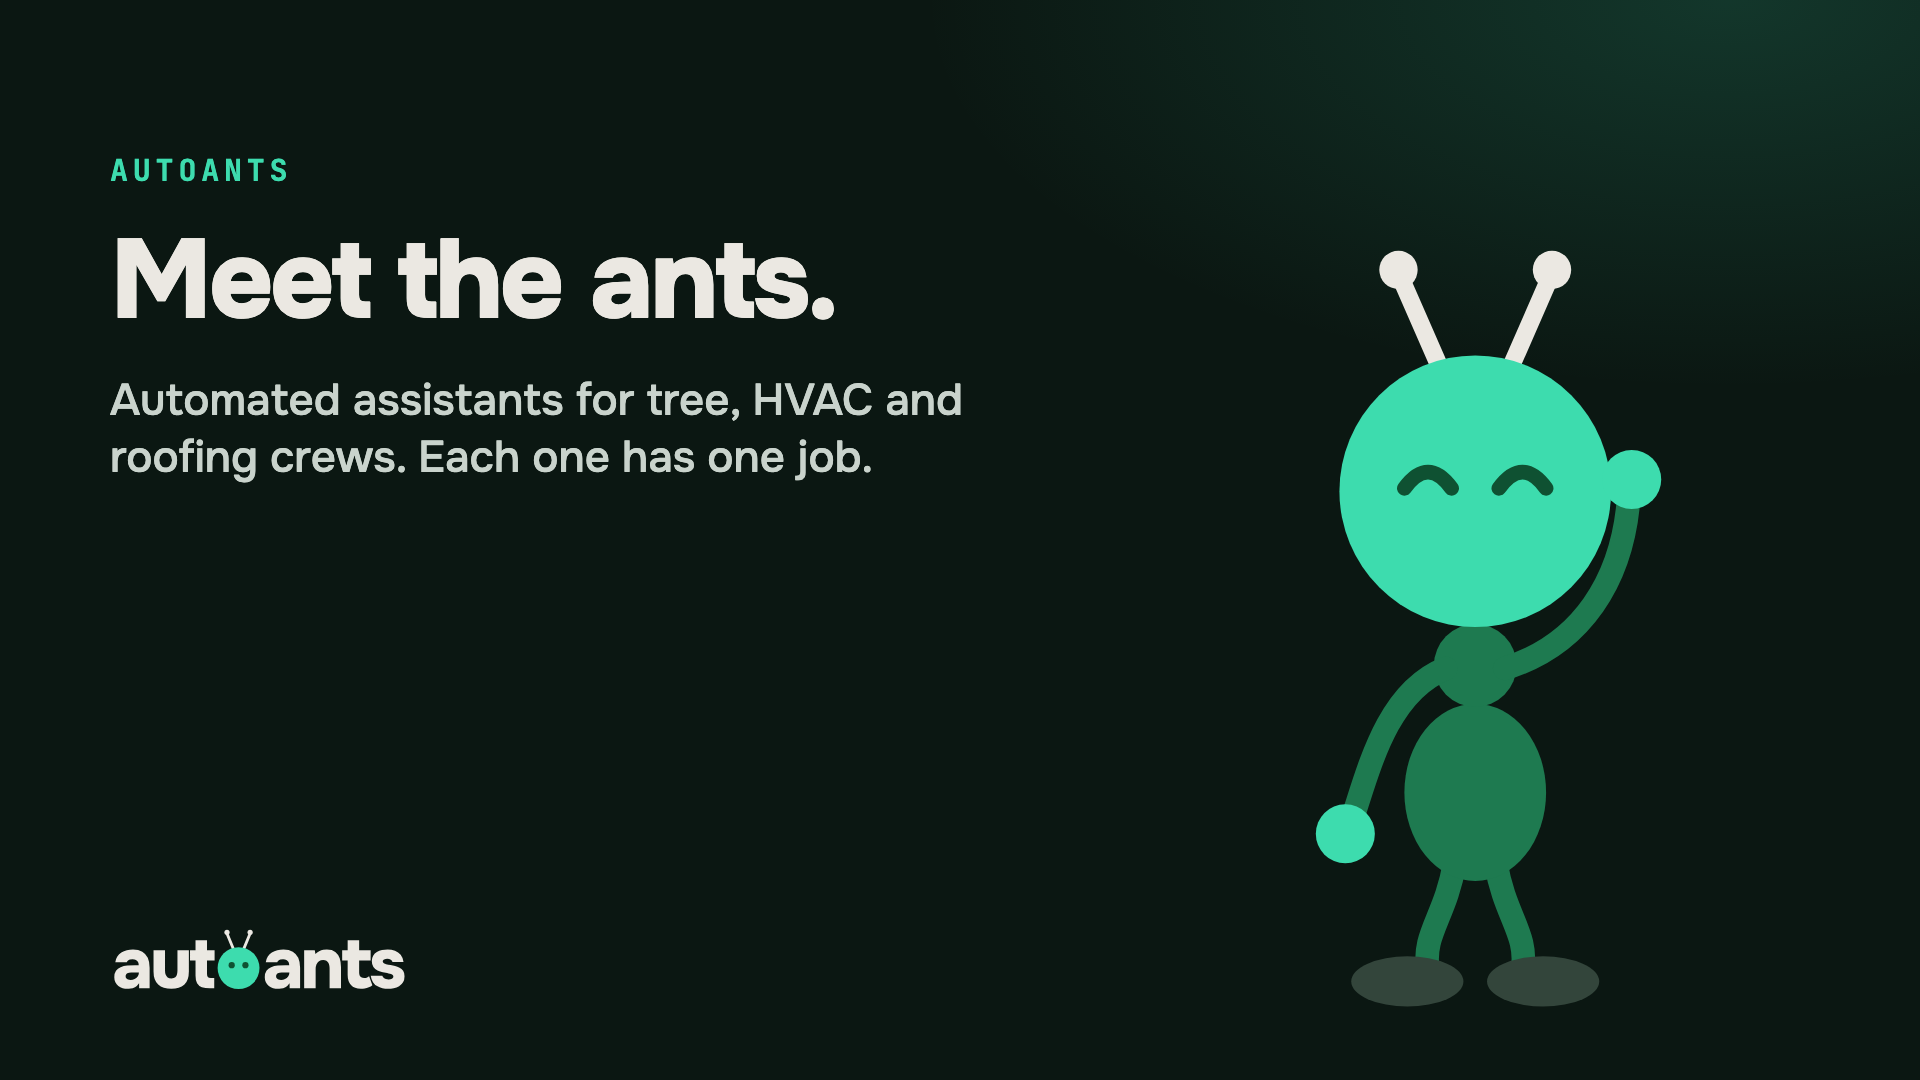
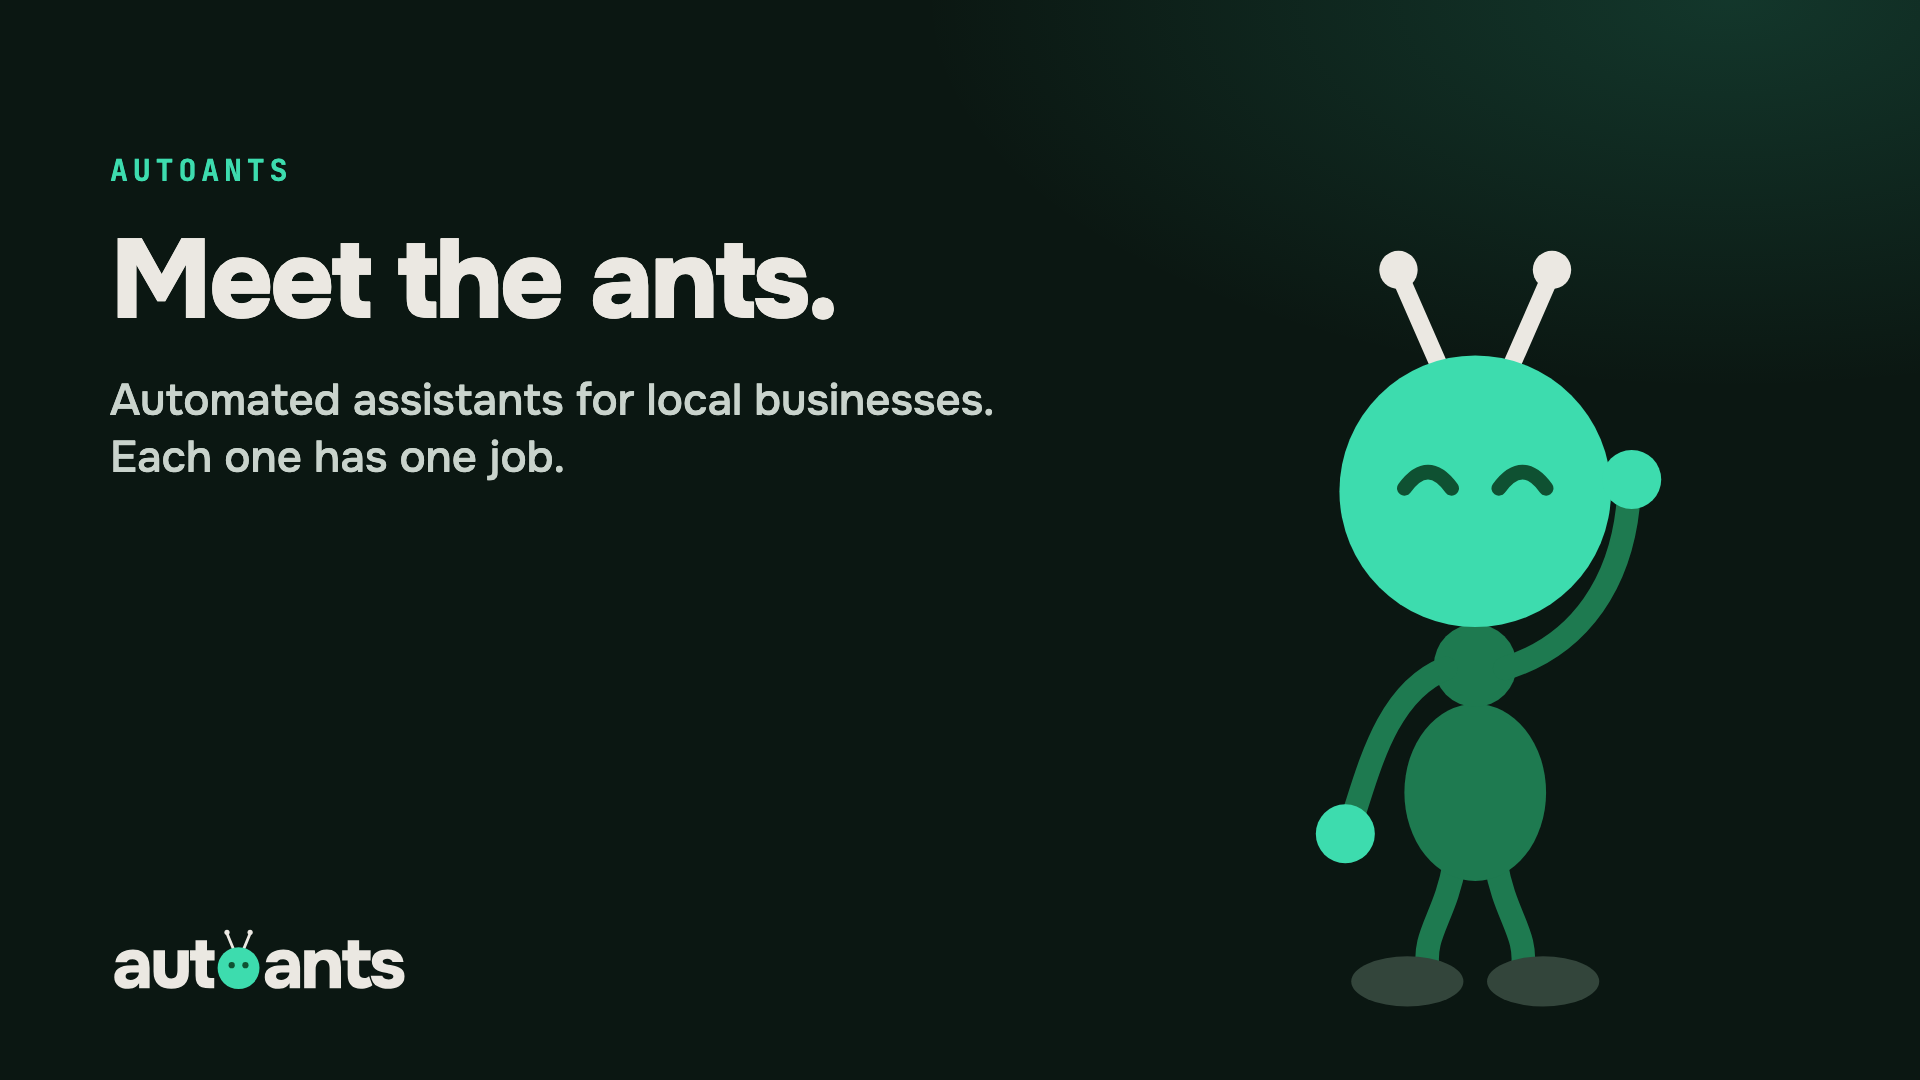
social: post #1 (meet the ants) says local businesses; caption updated

Changed region(s): [[0.0625, 0.3361, 0.5312, 0.4583]]

diff --git a/brand/social/LAUNCH.md b/brand/social/LAUNCH.md
@@ -42,8 +42,8 @@ Use the `feed` size on Instagram, Facebook and LinkedIn, and `wide` on X. Use th
 Hashtags are kept to three or four, all local or trade: they help a little, and a wall of tags reads as spam.
 
 **meet-the-ants**
-> Meet the ants. 🐜 Each one does one job for your crew while you're out working: texts back the calls you miss, answers new leads, books estimates, asks every customer for a review. Louisiana-built. See what they'd do for you at autoants.com.
-> #TreeService #HVAC #Roofing #Louisiana
+> Meet the ants. 🐜 Each one does one job for your business while you're busy: texts back the calls you miss, answers new leads, books appointments, asks every customer for a review. See what they'd do for you at autoants.com.
+> #SmallBusiness #Louisiana #LocalBusiness
 
 **the-callback**
 > You're up a tree when the phone rings. The homeowner doesn't leave a voicemail; they call the next crew on Google. The Callback texts them back in seconds, so the job stays yours.
